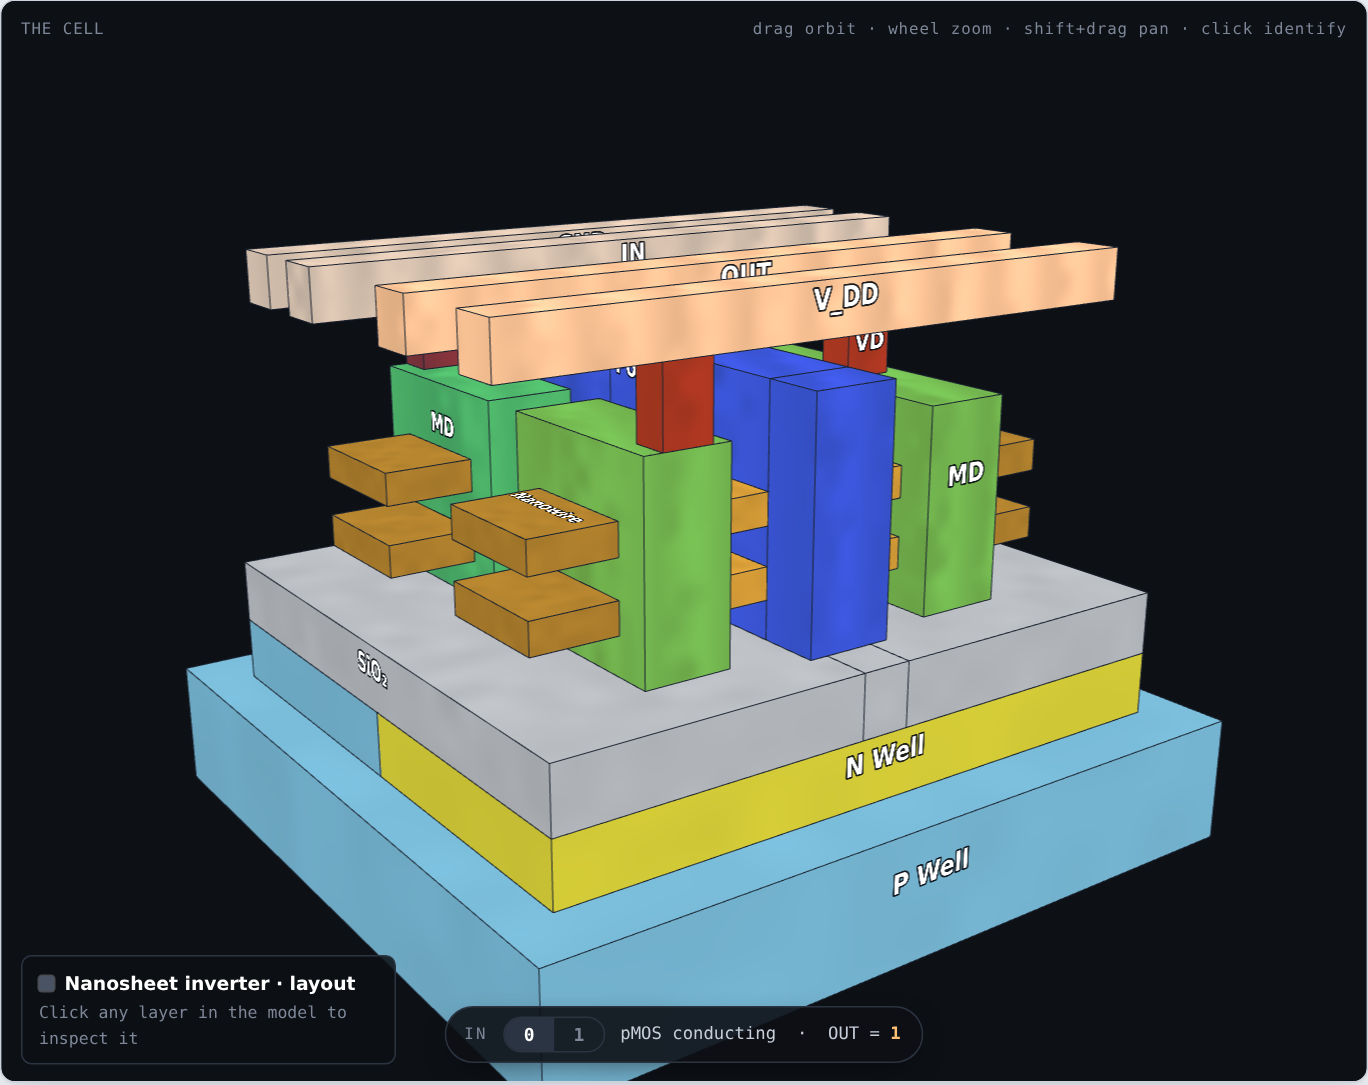
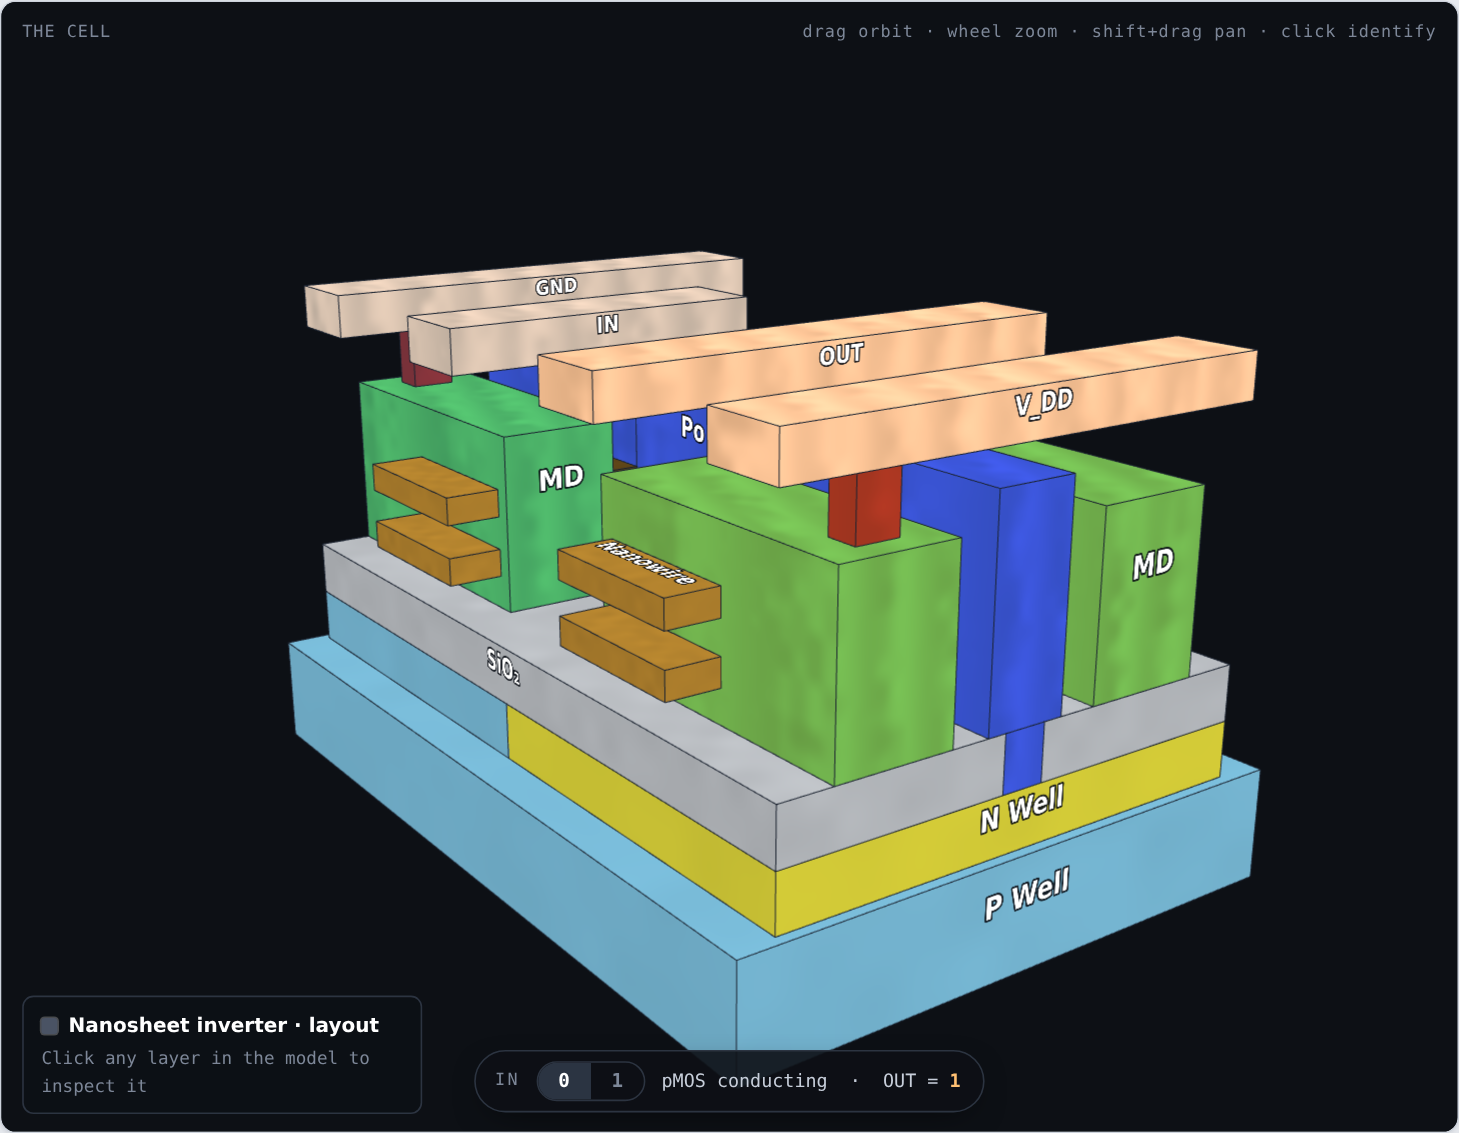
Release 1.1.0 — layout figures to scale

diff --git a/android/app/src/main/java/io/github/ehsanulkarimpappu/fetlab/AppInfo.kt b/android/app/src/main/java/io/github/ehsanulkarimpappu/fetlab/AppInfo.kt
@@ -13,7 +13,7 @@ object AppInfo {
     const val DEVELOPER = "Khandaker Ehsanul Karim"
     const val EMAIL = "ehsan.pappu.99@gmail.com"
 
-    /** Create this repository on GitHub before the first release. */
+    /** Public repository — issues, releases and the privacy notice all hang off this. */
     const val REPO = "https://github.com/ehsanul-karim-pappu/fet-lab"
     const val PROFILE = "https://github.com/ehsanul-karim-pappu"
     const val ISSUES = "$REPO/issues"

diff --git a/CHANGELOG.md b/CHANGELOG.md
@@ -1,0 +1,68 @@
+# Changelog
+
+All notable changes to FET Lab. Dates are the release date; versions follow
+[semantic versioning](https://semver.org).
+
+## 1.1.0 — 2026-09-13
+
+The layout figures are now drawn to scale, and the numbers the app prints are checked
+against the geometry on every build.
+
+### Layout figures redrawn to scale
+
+Everything in the plane of the wafer now comes from the device cross-sections, so one
+nanometre means the same thing in the Device, Inverter and Layout scenes.
+
+- Gate drawn at its physical length (18 nm FinFET, 15 nm elsewhere) instead of 14 nm;
+  MD drawn at the contacted length of 22 nm instead of 14 nm. The MD-to-gate ratio was
+  1.00 as drawn where it should have been 1.22.
+- Metal 0 on one uniform track pitch with the rails on the cell boundary. The tracks
+  previously sat at three different pitches — 15, 29 and 22 nm — in the same cell.
+- Each cell at its real rail-to-rail width: 156 / 136 / 106 / 74 nm. The Layout compare
+  scene had drawn FinFET, nanosheet and forksheet all at 116 nm — identical — while
+  telling the reader to watch the cell narrow. It now agrees with the Inverter compare.
+- MD columns run the full cell height, rail edge to rail edge, and are cut only where the
+  net changes. At a cut each piece overhangs its channel by 3 nm rather than sitting flush
+  with the end of the channel it contacts.
+- Wells, field oxide and gate extend under the far edge of the rail, because a rail
+  straddles the cell boundary and is shared with the row above or below.
+
+### Fixed
+
+- **Forksheet output was not connected.** The dielectric wall splits the drain contact in
+  two, and the n-side via went nowhere — the OUT track runs on the p side of the wall. A
+  transverse Metal 0 jog over the drain now ties the two halves together.
+- **Dimension callouts on Android** were dropped onto the geometry with no leader line and
+  no reference to what they measured, and piled on top of each other. They now sit at their
+  own label point, draw the measured span and a leader to it, and are spaced apart. The
+  collision code had been estimating each chip as one line of body text when it is two
+  lines of mono inside a padded surface — about half the real height.
+- **Layer names on top faces** ran vertically. The axis is now chosen by how the name comes
+  out on screen rather than by which in-plane axis is longer.
+- **EOT callout** printed 1.35 nm against an arrow spanning the 3 nm physical stack. It now
+  reads `t_ox = 3 nm` with `1 SiO₂ + 2 HfO₂ · EOT 1.35 nm` beneath, and on the FinFET the
+  arrow no longer runs diagonally across a corner.
+- FinFET `W_eff` row said "2H+W per fin" against a value covering both fins.
+- Section views framed the cell by its largest extent, which ignored perspective and let
+  deep cells overflow the frame by up to 150 px. Framing now solves each bounding-box
+  corner exactly, and the aspect correction is no longer defeated by the framing cap.
+- Reset restored a light background on layout scenes, against the dark default.
+- `build_devices.py`, `build_geometry.py` and `export_meshes.py` wrote to hardcoded
+  `/home/claude/...` paths, so the documented "regenerate the geometry" steps could not
+  work from a clone.
+
+### Added
+
+- **Slow rotate** toggle on Android, under Section → Display.
+- `scripts/build_web.py` — assembles `roadmap.html` and `pwa/index.html` from the template
+  and bumps the service-worker cache, a step that had been manual.
+- `scripts/verify.py` now checks every callout's printed value against the length of the
+  span it draws, and the declared gate length against the high-κ film that defines it.
+- `scripts/ktcheck.py` now catches Compose state used above its own declaration — the
+  error that broke the previous Android build.
+
+## 1.0.0 — 2026-09-13
+
+First stable build: web viewer, installable PWA and Android app all working from one
+geometry file. Sixteen scenes — six device, five inverter, five layout — across FinFET,
+nanosheet, forksheet and CFET.

diff --git a/README.md b/README.md
@@ -30,12 +30,12 @@ so a section reads like a real cross-section rather than a shell.
 |---|---|
 | **Device** | Technical cross-sections of each architecture — section planes, exploded view, tap-to-identify. |
 | **Inverter** | A complete CMOS standard cell in each architecture. Drive the input and the conducting path lights up. |
-| **Layout** | The same inverter as a labelled layout figure — P Well, N Well, SiO₂, nanowire, MD, Po, VD, VG, Metal 0. |
+| **Layout** | The same inverter as a labelled layout figure — P Well, N Well, SiO₂, nanowire, MD, Po, VD, VG, Metal 0 — at the cell's real rail-to-rail width, on a uniform Metal 0 track pitch. |
 
 <table>
 <tr>
 <td width="50%"><img src="docs/inverter.png" alt="Nanosheet inverter, section through the gate"><br><sub><b>Inverter</b> — pMOS conducting, nMOS dimmed</sub></td>
-<td width="50%"><img src="docs/layout.png" alt="Nanosheet inverter as a layout figure"><br><sub><b>Layout</b> — the figure, extruded</sub></td>
+<td width="50%"><img src="docs/layout.png" alt="Nanosheet inverter as a layout figure"><br><sub><b>Layout</b> — the figure, extruded, and drawn to scale</sub></td>
 </tr>
 </table>
 
@@ -62,8 +62,10 @@ Two comparison scenes put the numbers side by side, and they disagree — which 
 | Forksheet | 64 nm — 56% | 106 nm — 68% |
 | CFET | 34 nm — 30% | 74 nm — 47% |
 
-Cell width shrinks about half as much as device footprint, because power rails and the
-routing they need do not scale with the transistor. Published node figures behave the same
+The Layout figures are drawn at those same cell widths, so the two comparison scenes
+agree rather than telling different stories. Cell width shrinks about half as much as
+device footprint, because power rails and the routing they need do not scale with the
+transistor. Published node figures behave the same
 way — imec quotes roughly 5T → 4.3T for the forksheet, and CFET is generally credited with
 a 1.5–2× area gain rather than the 3× the device footprint alone suggests.
 
@@ -77,6 +79,7 @@ models/     Every scene exported as GLB / STL / OBJ
 scripts/    The parametric generators
 data/       devices.json — the box list the app, the viewers and the exporters all read
 store/      Play Store assets and listing copy
+docs/       Screenshots and the written background
 ```
 
 ## Build the app
@@ -165,6 +168,11 @@ debug APK on each push and attaches it to the run as an artifact.
 If you name the repository something other than `fet-lab`, change `REPO` and `SLUG` in
 `android/app/src/main/java/io/github/ehsanulkarimpappu/fetlab/AppInfo.kt` to match — the
 About screen, the issue link and the privacy-policy URL Play asks for all derive from them.
+
+## Releases
+
+Version history and what changed in each release: [CHANGELOG.md](CHANGELOG.md).
+Builds are on the [releases page](../../releases).
 
 ## Contributing
 
